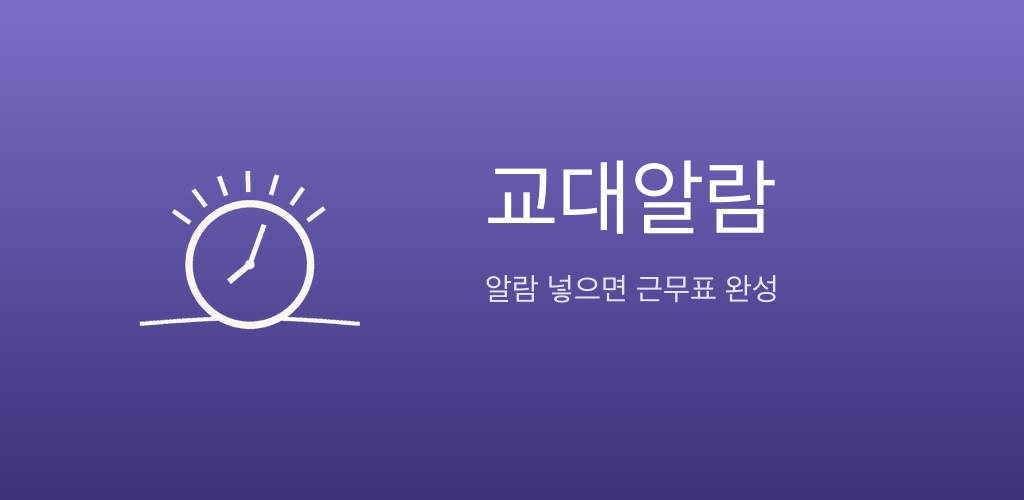
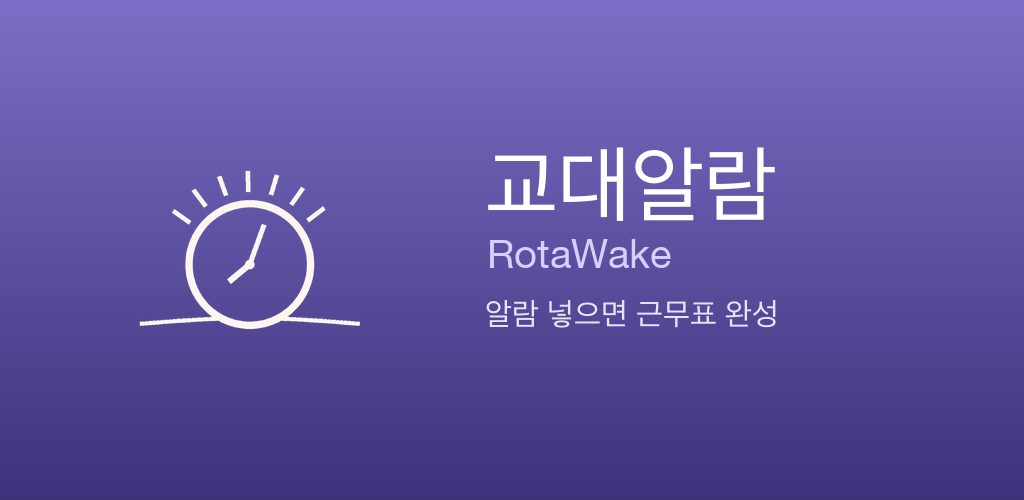
chore: 한국어 스토어 대표 이미지에 RotaWake 이름 추가
한국 스토어 제목을 "교대알람(RotaWake)"로 바꿔서 대표 이미지에도 해외용 이름을 작게 함께 표시

Changed region(s): [[0.4688, 0.3, 0.7812, 0.66]]

diff --git a/scripts/make-feature-graphic.py b/scripts/make-feature-graphic.py
@@ -39,7 +39,13 @@ for lang, (title, tag, font) in ROWS.items():
     tf = fit(title, LATIN if title == name else font, 84)
     sf = fit(tag, font, 31)
     x = 485
-    d.text((x, 228), title, font=tf, fill=(255, 255, 255), anchor='ls')
-    d.text((x, 300), tag, font=sf, fill=(232, 228, 255), anchor='ls')
+    if lang == 'ko-KR':
+        # 한국 스토어 제목이 "교대알람(RotaWake)"라 이미지에도 해외용 이름을 작게 함께 쓴다
+        d.text((x, 215), title, font=tf, fill=(255, 255, 255), anchor='ls')
+        d.text((x + 2, 268), name, font=ImageFont.truetype(LATIN, 40), fill=(214, 208, 255), anchor='ls')
+        d.text((x, 325), tag, font=sf, fill=(232, 228, 255), anchor='ls')
+    else:
+        d.text((x, 228), title, font=tf, fill=(255, 255, 255), anchor='ls')
+        d.text((x, 300), tag, font=sf, fill=(232, 228, 255), anchor='ls')
     im.save(os.path.join(out, lang + '.png'), optimize=True)
     print(lang, im.size)
